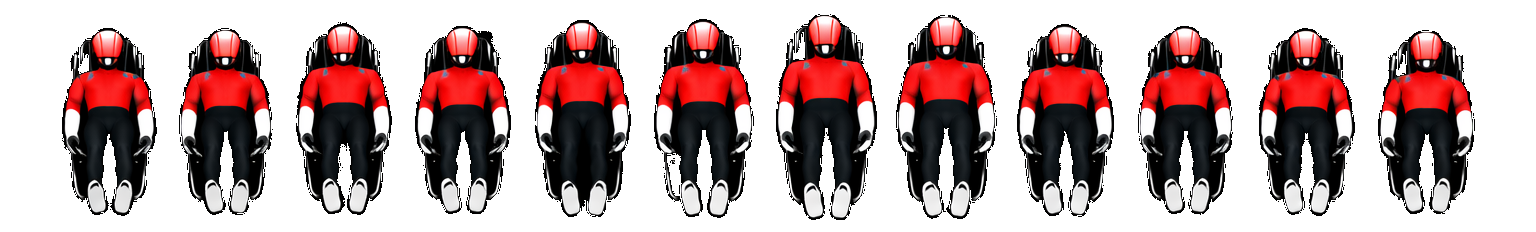
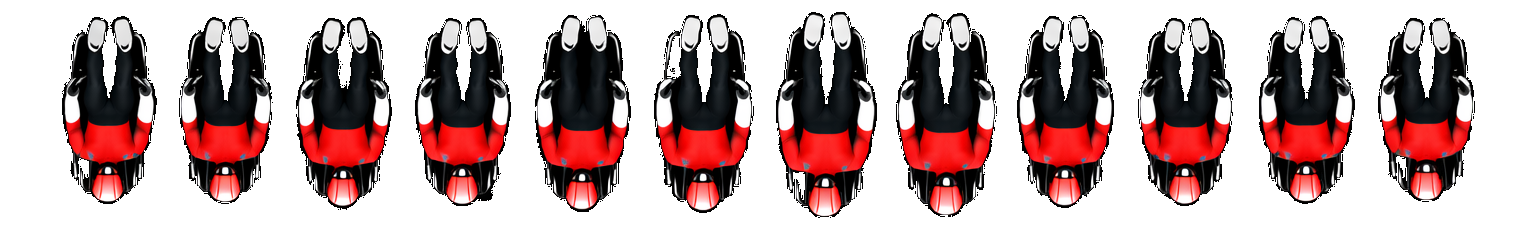
fix(luge): vertical-flip spritesheet + baseRotationOffset Math.PI/2
Sprite was authored for the standard +π/2 display convention (head at
top → canvas right). Using baseRotationOffset:0 caused the sprite X-axis
body-shape variations to oscillate in the wrong canvas axis, producing a
visible rotation artifact instead of squash/stretch animation.

Fix: flip luge-slide.png top↔bottom so sled leads (correct travel
direction), and set baseRotationOffset:Math.PI/2 to match the convention
used by all other SpriteRacerType instances.

diff --git a/client/src/modules/racer-types/LugeRacerType.js b/client/src/modules/racer-types/LugeRacerType.js
@@ -26,7 +26,7 @@ export const LugeRacerType = new SpriteRacerType({
   frameHeight: 232,
   frameCount: 12,
   basePeriodMs: 600,
-  baseRotationOffset: 0,
+  baseRotationOffset: Math.PI / 2,
   displaySize: 40,
   tintMode: 'multiply',
 
